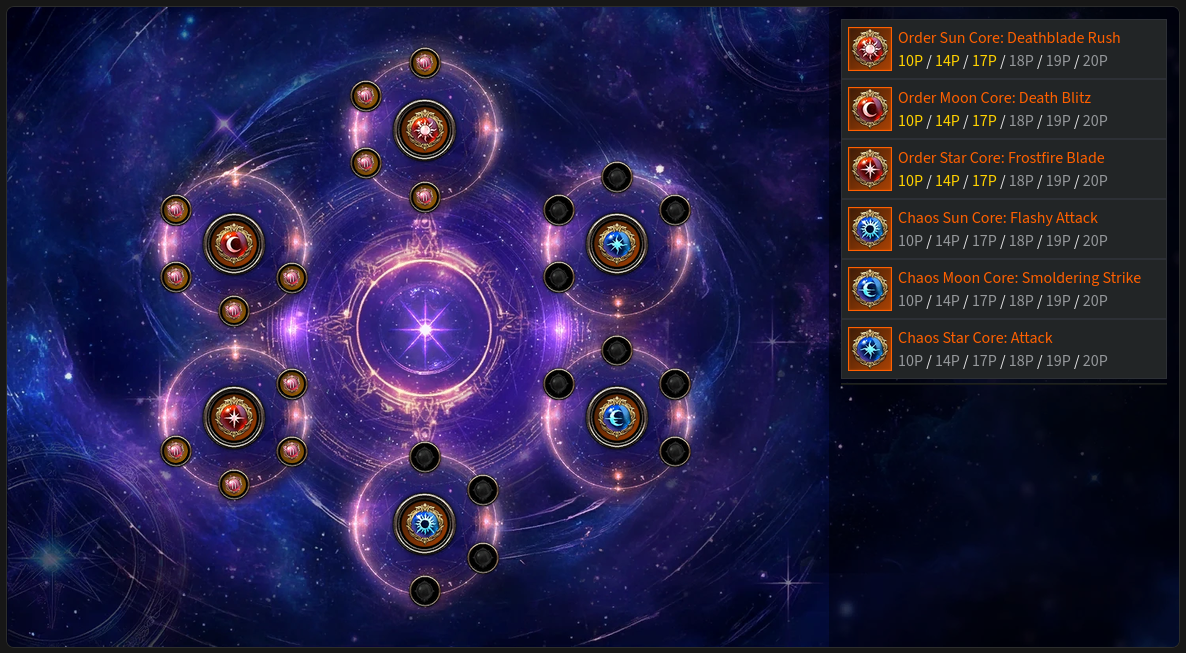
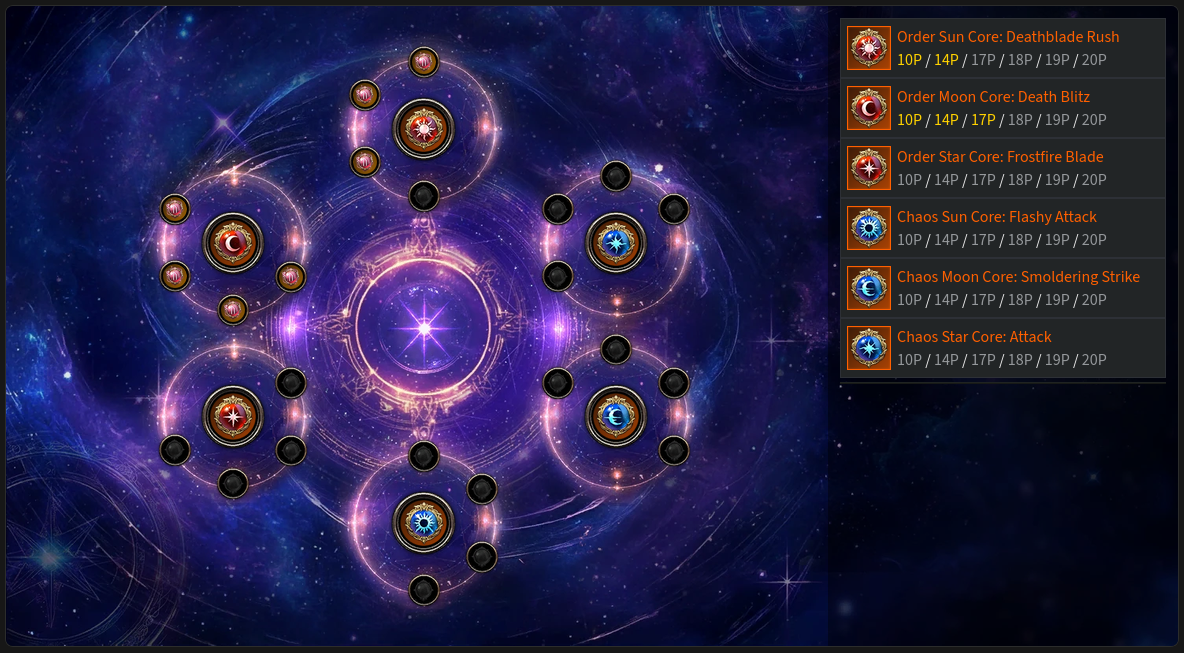
333 done

diff --git a/docs/surge/333-blitz.md b/docs/surge/333-blitz.md
@@ -1,21 +1,25 @@
 # 333 (Blitz) 🐯 NOT IN NA SERVERS YET
 
-![333 Blitz meme](../assets/surge/blitz-meme.png)
+??? danger "🐯"
+    ![333 Blitz meme](../assets/surge/blitz-meme.png)
 
 <div class="build-card" markdown>
 
 <div class="build-stats">
-<div class="stat"><span class="stat-label">Difficulty</span><span class="stat-value">TBD</span></div>
-<div class="stat"><span class="stat-label">Trixion DPS</span><span class="stat-value">TBD</span></div>
-<div class="stat"><span class="stat-label">Playstyle</span><span class="stat-value">TBD</span></div>
+<div class="stat"><span class="stat-label">Difficulty</span><span class="stat-value">8 / 10</span></div>
+<div class="stat"><span class="stat-label">Trixion DPS</span><span class="stat-value">1.20 Multiplier</span></div>
+<div class="stat"><span class="stat-label">Playstyle</span><span class="stat-value">Skill Reset</span></div>
 </div>
 
-- TODO: short summary bullets, same style as the other build pages
-- TODO: what makes this build different from 111/222
-- TODO: efficiency/DPS distribution notes
-- TODO: risk/reward tradeoffs
+**Best For:** Erm.
 
-[Video Guide](#){ .video-chip }
+**Tradeoff:** The juice is not worth the squeeze.
+
+- Uses Blitz Rush as two fast casts (BTB combo) via a skill reset.
+- High gem efficiency, Surge and Blitz Rush are most of your DPS.
+- Must balance Surge, Blitz Rush, and Deathly Slash back attack rate with Surge CPM.
+
+[KR Video Guide](https://www.youtube.com/watch?v=pzFa5zOuNik){ .video-chip }
 
 </div>
 
@@ -24,28 +28,33 @@
 !!! danger "Before importing"
     Apply both "Ark Passive" and "Skill" to be safe. For [Gems](#gems), follow the guide.
 
-*TODO: this build is currently too impractical for the damage dealt — fill in once it's viable.*
 
-```
-TODO_SKILL_CODE_HERE
-```
+=== "333 Blitz"
+
+    ```
[1 lines of base64/hex data omitted]
+    ```
 
 ## Ark Setup
 
 ![333 Ark Passive/Grid tree](../assets/surge/argrid-tree-333.png)
 ![333 Order cores](../assets/surge/ordercores-333.png)
 
+!!! tip ""
+    The minimum requirement to play this build is 14p Sun and 17p Moon, but damage will be lacking. 
+
 !!! note "Adjustments"
     - Use the [DPS Calculator](https://docs.google.com/spreadsheets/d/1_0J7liyM_yw16pyn6TKlF1YGaIt5n_A9hSoLnT3yTUc/copy) to optimize Keen Sense/Limit Break and Master/Critical.
         - Keen Sense 2 + Master is usually best unless you have 2x crit rate synergy or 2x crit rate bracelet.
+    - Release Potential 4 / Instant Spell 2 may be needed with +CD bracelet line (needs testing).
 
 ## Skill Setup
 
-*TODO: Skill setup image.*
+![333 skill setup](../assets/surge/skillsetup-333.png)
 
 !!! tip "Rune Adjustments"
     - Use Legendary Purify on Spincutter if needed.
-    - Use Epic Rage on Turning Slash if you prefer higher Rage uptime.
+    - Use Legendary Bleed or Poison on Turning Slash if you don't use RC/MI engravings.
 
 ??? note "Skill Adjustments"
     - Earth Explosion tripod on Earth Cleaver is up to personal preference.
@@ -62,24 +71,27 @@ TODO_SKILL_CODE_HERE
 <div class="gem-priority" markdown>
 
 <div class="gem-col gem-col-dmg" markdown>
-**Damage** — TODO priority notes.
+**Damage** — *Prioritize Surge. Surge is everything.*
 
 <div class="gem-row" markdown>
-<span class="gem-chip"><span class="gem-num">1</span> TODO</span>
-<span class="gem-chip"><span class="gem-num">2</span> TODO</span>
-<span class="gem-chip"><span class="gem-num">3</span> TODO</span>
-<span class="gem-chip"><span class="gem-num">4</span> TODO</span>
+<span class="gem-chip"><span class="gem-num">1</span> ![](../assets/surge/icon-surge.png) Surge</span>
+<span class="gem-chip"><span class="gem-num">2</span> ![](../assets/surge/icon-blitzrush.png) Blitz Rush</span>
+<span class="gem-chip"><span class="gem-num">3</span> ![](../assets/surge/icon-bladedance.png) Blade Dance</span>
+<span class="gem-chip"><span class="gem-num">4</span> ![](../assets/surge/icon-earthcleaver.png) Earth Cleaver</span>
+<span class="gem-chip"><span class="gem-num">5</span> ![](../assets/surge/icon-turningslash.png) Turning Slash</span>
 </div>
 </div>
 
 <div class="gem-col gem-col-cd" markdown>
-**Cooldown** — TODO priority notes.
+**Cooldown** — *Playable with Lv 7s, ideally Lv 8s or higher.*
 
 <div class="gem-row" markdown>
-<span class="gem-chip"><span class="gem-num">1</span> TODO</span>
-<span class="gem-chip"><span class="gem-num">2</span> TODO</span>
-<span class="gem-chip"><span class="gem-num">3</span> TODO</span>
-<span class="gem-chip"><span class="gem-num">4</span> TODO</span>
+<span class="gem-chip"><span class="gem-num">1</span> ![](../assets/surge/icon-windcut.png) Wind Cut</span>
+<span class="gem-chip"><span class="gem-num">2</span> ![](../assets/surge/icon-blitzrush.png) Blitz Rush</span>
+<span class="gem-chip"><span class="gem-num">3</span> ![](../assets/surge/icon-bladedance.png) Blade Dance</span>
+<span class="gem-chip"><span class="gem-num">4</span> ![](../assets/surge/icon-surpriseattack.png) Surprise Attack</span>
+<span class="gem-chip"><span class="gem-num">5</span> ![](../assets/surge/icon-maelstrom.png) Maelstrom</span>
+<span class="gem-chip"><span class="gem-num">6</span> ![](../assets/surge/icon-earthcleaver.png) Earth Cleaver</span>
 </div>
 </div>
 
@@ -87,29 +99,34 @@ TODO_SKILL_CODE_HERE
 
 ## Rotation
 
-*TODO: general rotation notes, stack caps, timing windows, etc.*
+There's an optimal skill order, but you have flexibility when facing downtime or weaving in mobility skills.
 
-!!! note ""
-    TODO
+Spincutter is your main mobility skill and backup stack builder. Use it to guarantee back attacks on your major skills.
+
+Use the Main cycle and repeat it as best you can.
+
+*From 3 orbs:*
 
 === "Main Cycle"
 
-    *From 3 orbs:*
-
     <div class="rotation-line" markdown>
-    TODO → TODO → TODO → TODO
+    <span class="skill">![](../assets/surge/icon-windcut.png)Wind Cut</span><span class="arrow"> → </span><span class="skill">![](../assets/surge/icon-deathtrance.png)Death Trance</span><span class="arrow"> → </span><span class="skill">![](../assets/surge/icon-maelstrom.png)Maelstrom</span><span class="arrow"> → </span><span class="skill">![](../assets/surge/icon-surpriseattack.png)Surprise Attack</span><span class="arrow"> → </span><span class="skill">![](../assets/surge/icon-windcut.png)Wind Cut</span><span class="arrow"> → </span><span class="skill">![](../assets/surge/icon-earthcleaver.png)Earth Cleaver</span><span class="arrow"> → </span><span class="skill">![](../assets/surge/icon-bladedance.png)Blade Dance</span><span class="arrow"> → </span><span class="skill">![](../assets/surge/icon-deathlyslash.png)Deathly Slash</span><span class="arrow"> → </span><span class="skill">![](../assets/surge/icon-blitzrush.png)Blitz Rush</span><span class="arrow"> → </span><span class="skill">![](../assets/surge/icon-turningslash.png)Turning Slash</span><span class="arrow"> → </span><span class="skill">![](../assets/surge/icon-blitzrush.png)Blitz Rush</span><span class="arrow"> → </span><span class="skill">*(![](../assets/surge/icon-surpriseattack.png) Surprise Attack — situational)*</span><span class="arrow"> → </span><span class="skill">![](../assets/surge/icon-surge.png)Surge</span>
     </div>
 
-    1. TODO
-    2. TODO
+    - You can skip the second Surprise Attack when you have excess stacks.
 
 === "Opener/Awakening Cycle"
 
-    *From 3 orbs:*
-
     <div class="rotation-line" markdown>
-    TODO → TODO → TODO → TODO
+    <span class="skill">![](../assets/surge/icon-windcut.png)Wind Cut</span><span class="arrow"> → </span><span class="skill">![](../assets/surge/icon-deathtrance.png)Death Trance</span><span class="arrow"> → </span><span class="skill">![](../assets/surge/icon-maelstrom.png)Maelstrom</span><span class="arrow"> → </span><span class="skill">![](../assets/surge/icon-surpriseattack.png)Surprise Attack</span><span class="arrow"> → </span><span class="skill">![](../assets/surge/icon-windcut.png)Wind Cut</span><span class="arrow"> → </span><span class="skill">![](../assets/surge/icon-bladeassault.png)Blade Assault</span><span class="arrow"> → </span><span class="skill">![](../assets/surge/icon-deathlyslash.png)Deathly Slash</span><span class="arrow"> → </span><span class="skill">![](../assets/surge/icon-turningslash.png)Turning Slash</span><span class="arrow"> → </span><span class="skill">![](../assets/surge/icon-blitzrush.png)Blitz Rush</span><span class="arrow"> → </span><span class="skill">![](../assets/surge/icon-surge.png)Surge</span>
     </div>
 
-    1. TODO
-    2. TODO
+    - Needs testing when the update arrives to NA.
+
+*From zero orbs:*
+
+1. Use a ![](../assets/shared/icon-stimulant.png){: .skill-icon } Stimulant (recommended) or proceed to #2.
+2. Generate one orb, build at least 40 stacks, then Surge to refill all 3 orbs.
+
+??? example "Trixion DPS distribution"
+    ![333 DPS distribution](../assets/surge/dpsdist-333.png)

diff --git a/docs/surge/essentials.md b/docs/surge/essentials.md
@@ -8,7 +8,7 @@
     - Blitz Rush gains a 27% cast speed tripod and 20% more attack range.
     - Turning Slash and Surprise Attack's after-effects now also apply Synergy.
     - Overall damage increases, Surge is now competitive with RE.
-    - Post cast delay of Surge is removed, no longer need to animation cancel.
+    - Surge post-cast delay was removed, animation cancelling is no longer needed.
 
 !!! tip "Quick Tips"
     - Use the [DPS Calculator](https://docs.google.com/spreadsheets/d/1_0J7liyM_yw16pyn6TKlF1YGaIt5n_A9hSoLnT3yTUc/copy) to optimize Keen Sense/Limit Break and Master/Critical.
@@ -23,7 +23,7 @@
 |:---|:---:|:---|:---|
 | [111 (Classic)](111-classic.md) ⭐ | 7.5 / 10 | Burst Combo | Classic Surge gameplay |
 | [222 (Speedy)](222-speedy.md) | 7 / 10 | Max Mobility | Simple uptime focus |
-| [333 (Blitz)](333-blitz.md) | 🐯 | Skill Reset | 🐯 |
+| [333 (Blitz)](333-blitz.md) | 7.5 / 10 | Skill Reset | 🐯 |
 
 ## Engravings
 

diff --git a/docs/surge/111-classic.md b/docs/surge/111-classic.md
@@ -16,7 +16,7 @@
 - No need to hold Counter, it charges up to two stacks.
 - Very high gem efficiency, Surge is nearly all of your DPS.
 - Accessible from zero Ark Grid cores with minor adjustments.
-- Must constantly balance Surge Back Attack rate with Surge CPM.
+- Must constantly balance Surge back attack rate with Surge CPM.
 
 [KR Video Guide](https://www.youtube.com/watch?v=pzFa5zOuNik){ .video-chip } [KR Video Gameplay](https://www.youtube.com/watch?v=j-2dGp7PGws){ .video-chip }
 
@@ -99,6 +99,7 @@
 <span class="gem-chip"><span class="gem-num">5</span> ![](../assets/surge/icon-turningslash.png) Turning Slash</span>
 <span class="gem-chip"><span class="gem-num">6</span> ![](../assets/surge/icon-surpriseattack.png) Surprise Attack</span>
 </div>
+
 Earth Cleaver CD must be used instead of Blade Dance CD pre-Ark Grid. Use Quick Prep tripod on Blade Dance.
 
 </div>

diff --git a/docs/surge/222-speedy.md b/docs/surge/222-speedy.md
@@ -16,7 +16,7 @@
 - Highest mobility of all Deathblade builds by far.
 - Counter is used in rotation, you must hold it when necessary.
 - Very high gem efficiency, Surge and Deathly Slash are nearly all of your DPS.
-- Must constantly balance Surge and Deathly Slash Back Attack rates with Surge CPM.
+- Must constantly balance Surge and Deathly Slash back attack rate with Surge CPM.
 
 [KR Video Guide](https://www.youtube.com/watch?v=pzFa5zOuNik){ .video-chip } [KR Video Gameplay](https://www.youtube.com/watch?v=lbBLRwdEvgk){ .video-chip }
 
@@ -141,6 +141,7 @@ Use the Main cycle and repeat it relentlessly until the encounter ends.
 
     - Blade Dance is lightly tapped for a 'Destiny: Sharp Senses' stack.
     - If Blade Assault is on cooldown, finish up with a regular Main cycle.
+    - Needs testing when the update arrives to NA.
 
 === "Upper Slash"
 
